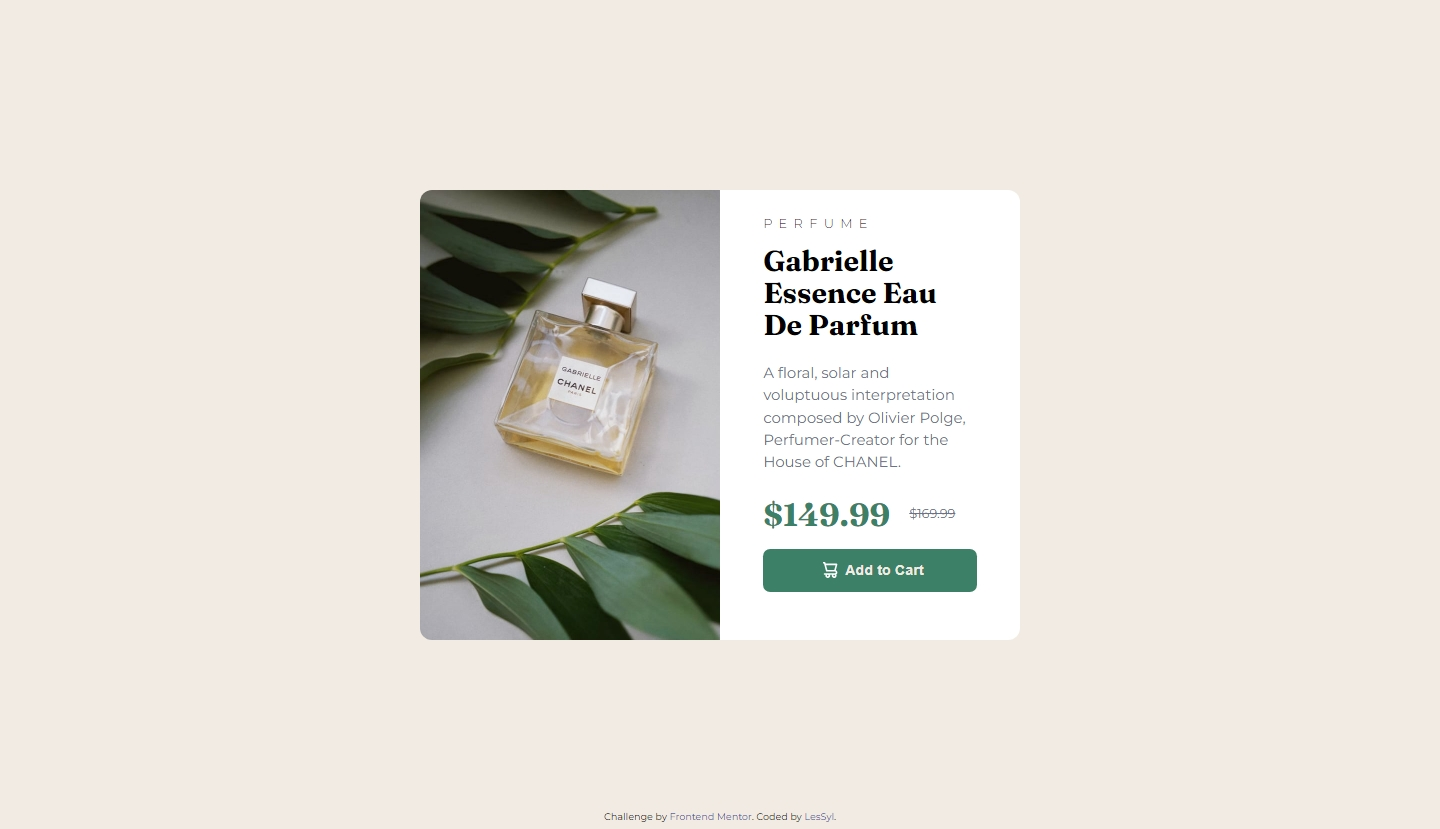
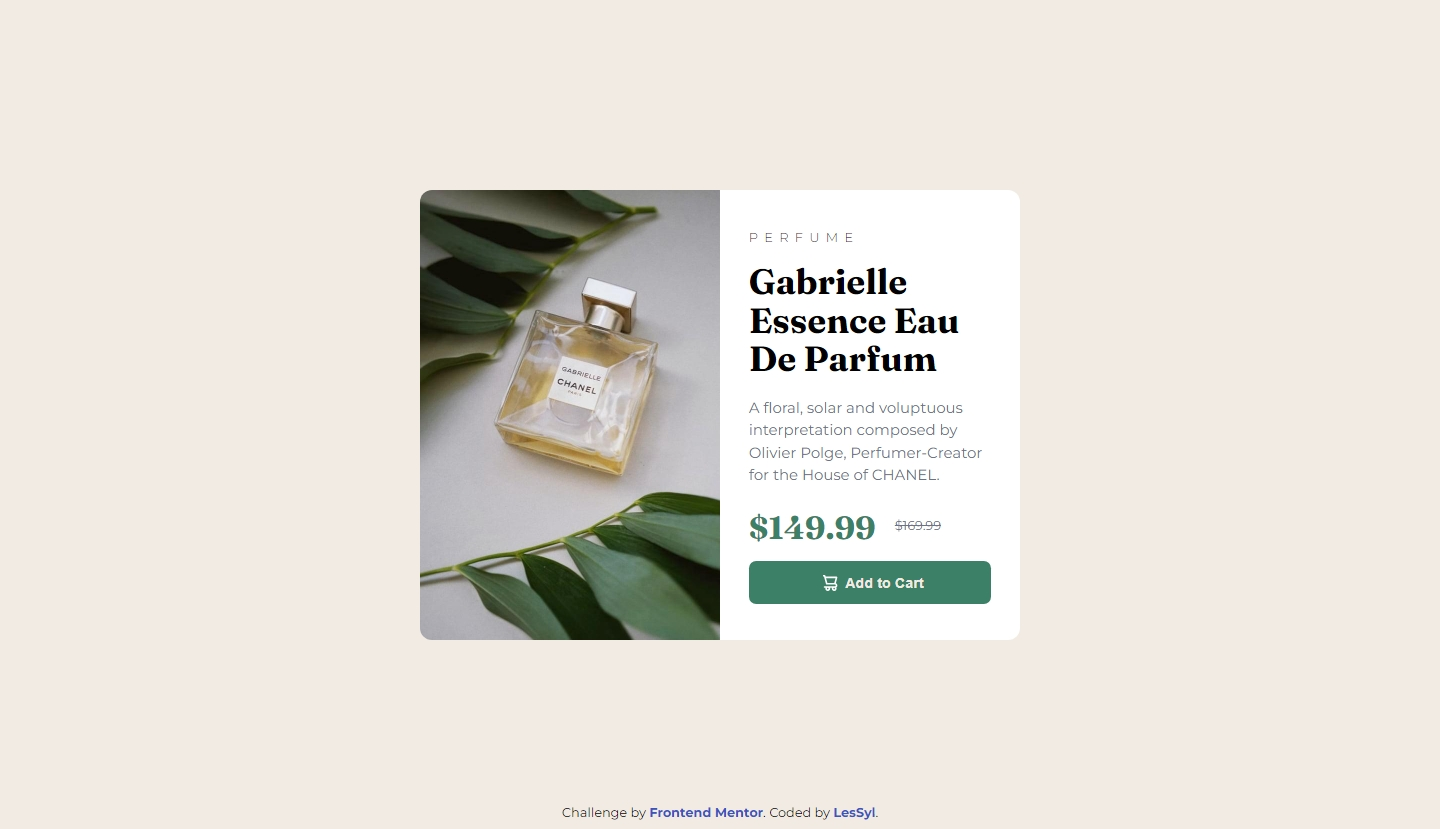
small amendments

Changed region(s): [[0.5, 0.2714, 0.6875, 0.573], [0.5, 0.6031, 0.6875, 0.7539], [0.4062, 0.965, 0.625, 0.9952]]

diff --git a/dist/css/main.min.css b/dist/css/main.min.css
@@ -1,2 +1,2 @@
-*{box-sizing:border-box;margin:0;padding:0}body{position:relative;display:flex;justify-content:center;align-items:center;min-height:100vh;font-family:Montserrat,sans-serif;font-size:.9rem;background-color:#f2ebe3}.wrapper{margin:0 auto;max-width:600px}.main-card{display:flex;flex-direction:column;justify-content:center;align-items:center}.main-card__img{width:90%;border-top-left-radius:12px;border-top-right-radius:12px}.main-card__img-desktop{display:none}.main-card__bg{background-color:#fff;width:90%;padding:1em 1.2em;border-bottom-left-radius:12px;border-bottom-right-radius:12px}.main-card__text{display:flex;flex-direction:column;justify-content:center;align-items:start}.main-card__text-perfume{font-size:.8rem;color:#1c232b;font-weight:300;letter-spacing:.5em;text-transform:uppercase}.main-card__text-heading{margin-top:.5em;font-family:Fraunces,sans-serif;line-height:1.1}.main-card__text-description{font-size:.8rem;line-height:1.5;color:#6c7289;margin-top:.5em}.main-card__text-price{display:flex}.main-card__text-price--one{font-size:2rem;font-family:Fraunces,sans-serif;color:#3c8067}.main-card__text-price--two{font-size:.8rem;padding:.8em 1.5em;text-decoration:line-through;color:#6c7289}.main-card__button{width:100%;padding:.5em;font-size:.8rem;color:#f2ebe3;border:none;background-color:#3c8067;border-radius:.5em;margin-top:.3em;cursor:pointer}.main-card__button,.main-card__button-img{display:flex;justify-content:center;align-items:center}.main-card__button-img{width:2em;height:2em}.main-card__button-text{font-weight:700}.footer{position:absolute;width:100%;text-align:center;bottom:0}.footer .attribution{padding:.7em;font-size:.6rem}.footer .attribution__link{color:#3e52a3;text-decoration:none;cursor:pointer}.footer .attribution__link:hover{color:#1c232b}@media (min-width:375px){.main-card__text-perfume{margin-top:1.5em}.main-card__text-heading{margin-top:.5em}.main-card__text-description{font-size:.93rem}.main-card__text-price{margin-top:1.5em}.main-card__button{font-size:.9rem;margin-top:1.5em}}@media (min-width:576px){.main-card__bg,.main-card__img{width:70%}.main-card__text{margin:.5em 2.5em 0}.main-card__text-heading{margin:.3em 0}.main-card__text-price{margin-bottom:1em}.main-card__button{margin:0 0 1em}}@media (min-width:768px){.main-card{display:flex;flex-direction:row;justify-content:center;align-items:center}.main-card__bg{height:450px;padding:0 .5em;border-bottom-left-radius:0;border-bottom-right-radius:12px;border-top-right-radius:12px}.main-card__img{width:50%;border-top-left-radius:12px;border-bottom-left-radius:12px;border-top-right-radius:0;border-bottom-right-radius:0}.main-card__img-mobile{display:none}.main-card__img-desktop{display:flex}.main-card__text-heading{margin:.5em 0}}
[1 lines of base64/hex data omitted]
+*{box-sizing:border-box;margin:0;padding:0}body{position:relative;display:flex;justify-content:center;align-items:center;min-height:100vh;font-family:Montserrat,sans-serif;font-size:.9rem;background-color:#f2ebe3}.wrapper{margin:0 auto;max-width:600px}.main-card{display:flex;flex-direction:column;justify-content:center;align-items:center}.main-card__img{width:90%;border-top-left-radius:12px;border-top-right-radius:12px}.main-card__img-desktop{display:none}.main-card__bg{background-color:#fff;width:90%;padding:1em 1.2em;border-bottom-left-radius:12px;border-bottom-right-radius:12px}.main-card__text{display:flex;flex-direction:column;justify-content:center;align-items:start}.main-card__text-perfume{font-size:.8rem;color:#1c232b;font-weight:300;letter-spacing:.5em;text-transform:uppercase}.main-card__text-heading{margin-top:.5em;font-family:Fraunces,sans-serif;line-height:1.1}.main-card__text-description{font-size:.8rem;line-height:1.5;color:#6c7289;margin-top:.5em}.main-card__text-price{display:flex}.main-card__text-price--one{font-size:2rem;font-family:Fraunces,sans-serif;color:#3c8067}.main-card__text-price--two{font-size:.8rem;padding:.8em 1.5em;text-decoration:line-through;color:#6c7289}.main-card__button{width:100%;padding:.5em;font-size:.8rem;color:#f2ebe3;border:none;background-color:#3c8067;border-radius:.5em;margin-top:.3em;cursor:pointer}.main-card__button,.main-card__button-img{display:flex;justify-content:center;align-items:center}.main-card__button-img{width:2em;height:2em}.main-card__button-text{font-weight:700}.footer{position:absolute;width:100%;text-align:center;bottom:0}.footer .attribution{padding:.7em;font-size:.6rem}.footer .attribution__link{color:#3b55bf;text-decoration:none;font-weight:700;cursor:pointer}.footer .attribution__link:hover{color:#1c232b}@media (min-width:375px){.main-card__text-perfume{margin-top:1.5em}.main-card__text-heading{margin-top:.5em}.main-card__text-description{font-size:.93rem}.main-card__text-price{margin-top:1.5em}.main-card__button{font-size:.9rem;margin-top:1.5em}}@media (min-width:576px){.main-card__bg,.main-card__img{width:70%}.main-card__text{margin:.5em 1em 0}.main-card__text-heading{margin:.3em 0}.main-card__text-price{margin-bottom:1em}.main-card__button{margin:0 0 1em}}@media (min-width:768px){.main-card{display:flex;flex-direction:row}.main-card__bg{height:450px;padding:0 .5em;border-bottom-left-radius:0;border-bottom-right-radius:12px;border-top-right-radius:12px}.main-card__img{width:50%;border-top-left-radius:12px;border-bottom-left-radius:12px;border-top-right-radius:0;border-bottom-right-radius:0}.main-card__img-mobile{display:none}.main-card__img-desktop{display:flex}.main-card__text{margin:1.5em}.main-card__text-heading{margin-top:.5em;font-family:Fraunces,sans-serif;line-height:1.1;font-size:2.2rem}.footer .attribution{font-size:.8rem}}
[1 lines of base64/hex data omitted]

diff --git a/index.html b/index.html
@@ -17,15 +17,15 @@
     <link rel="preconnect" href="https://fonts.gstatic.com" crossorigin>
     <link href="https://fonts.googleapis.com/css2?family=Montserrat:ital,wght@0,100..900;1,100..900&display=swap"
         rel="stylesheet">
-    <link rel="stylesheet" href="dist/css/main.min.css">
+<link rel="stylesheet" href="dist/css/main.min.css">
 </head>
 
 <body>
     <div class="wrapper">
         <main class="main-card">
-            <img src="src/img/image-product-mobile.jpg" alt="Bottle of chanel perfume"
+            <img src="dist/img/image-product-mobile.jpg" alt="Bottle of chanel perfume"
                 class="main-card__img main-card__img-mobile">
-            <img src="src/img/image-product-desktop.jpg" alt="Bottle of chanel perfume"
+            <img src="dist/img/image-product-desktop.jpg" alt="Bottle of chanel perfume"
                 class="main-card__img main-card__img-desktop">
             <div class="main-card__bg">
                 <div class="main-card__text">

diff --git a/src/sass/main.scss b/src/sass/main.scss
@@ -116,9 +116,11 @@ body {
 		&__link {
 			color: $link-color;
 			text-decoration: none;
+			font-weight: bold;
 			cursor: pointer;
 			&:hover {
 				color: $perfume-text;
+
 			}
 		}
 	}
@@ -157,7 +159,7 @@ body {
 			width: 70%;
 		}
 		&__text {
-			margin: 0.5em 2.5em 0;
+			margin: 0.5em 1em 0;
 			&-heading {
 				margin: 0.3em 0;
 			}
@@ -175,8 +177,6 @@ body {
 	.main-card {
 		display: flex;
 		flex-direction: row;
-		justify-content: center;
-		align-items: center;
 		&__bg {
 			height: 450px;
 			padding: 0 0.5em;
@@ -198,10 +198,18 @@ body {
 			}
 		}
 		&__text {
-		
+			margin: 1.5em;
 				&-heading {
-					margin: 0.5em 0;
-				}
+					margin-top: 0.5em;
+					font-family: 'Fraunces', sans-serif;
+					line-height: 1.1;
+					font-size: 2.2rem;
+				}				
+		}
+	}
+	.footer {
+		.attribution {
+			font-size: 0.8rem;
 		}
 	}
 }

diff --git a/src/sass/_colors.scss b/src/sass/_colors.scss
@@ -3,7 +3,7 @@
 
 $main-color: hsl(158, 36%, 37%);
 $bgcolor: hsl(30, 38%, 92%);
-$link-color: hsl(228, 45%, 44%);
+$link-color: hsl(228, 53%, 49%);
 
 // ### Neutral
 
